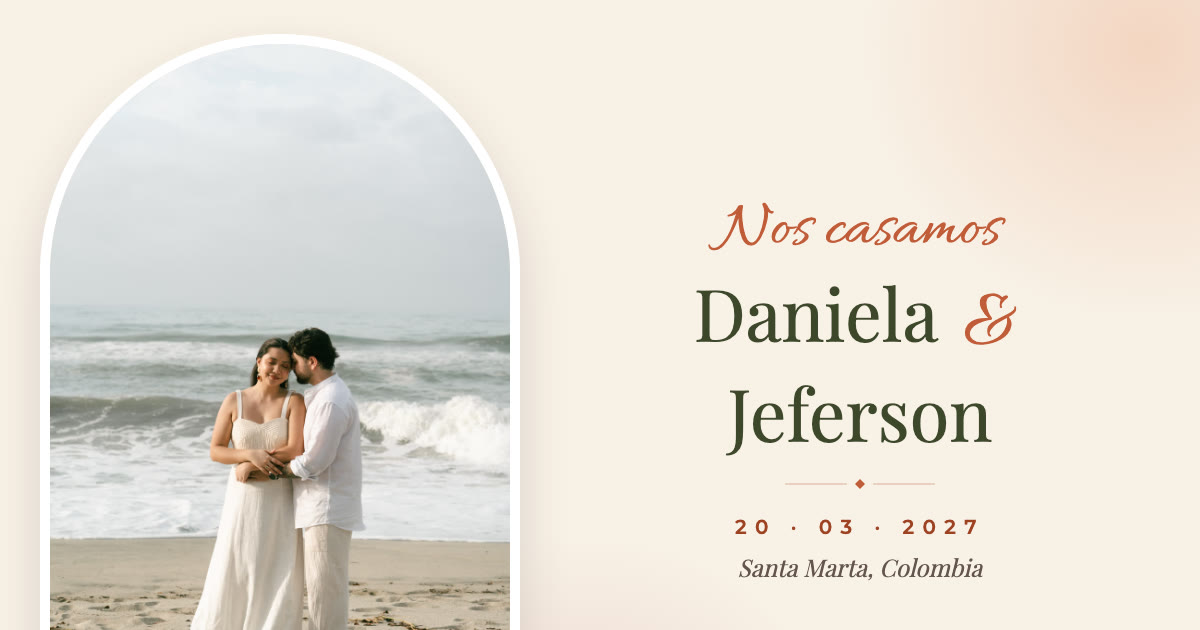
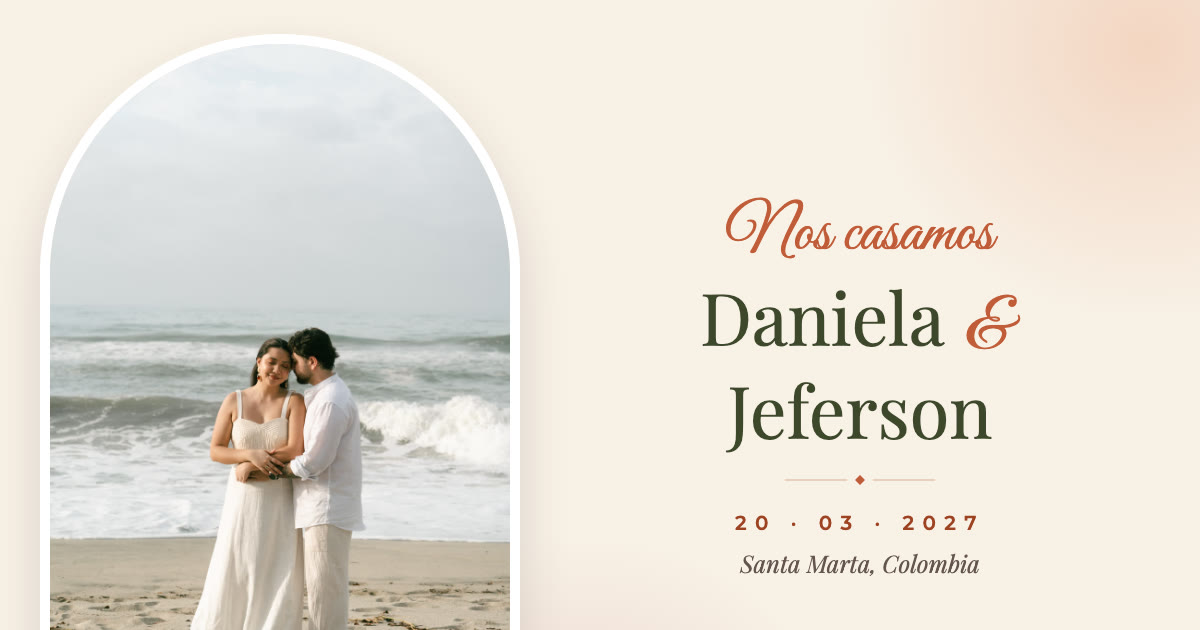
Cursiva Great Vibes en toda la invitación; monogramas D & J centrados
- Great Vibes reemplaza a Allura (invitación y panel)
- '&' de los monogramas (lacre, tarjeta del sobre, lacre del pase) con
  tamaño y separación ajustados midiendo la tinta real: centrado y parejo
- Imagen de vista previa de WhatsApp regenerada con Great Vibes

diff --git a/index.html b/index.html
@@ -35,10 +35,10 @@
 })(document.documentElement);
 </script>
 
-<!-- Fuentes según el Moodboard: Playfair Display, Allura, Montserrat -->
+<!-- Fuentes: Playfair Display, Great Vibes (cursiva), Montserrat -->
 <link rel="preconnect" href="https://fonts.googleapis.com">
 <link rel="preconnect" href="https://fonts.gstatic.com" crossorigin>
-<link href="https://fonts.googleapis.com/css2?family=Allura&family=Montserrat:wght@400;500;600&family=Playfair+Display:ital,wght@0,400;0,500;0,600;1,400&display=swap" rel="stylesheet">
+<link href="https://fonts.googleapis.com/css2?family=Great+Vibes&family=Montserrat:wght@400;500;600&family=Playfair+Display:ital,wght@0,400;0,500;0,600;1,400&display=swap" rel="stylesheet">
 
 <style>
   :root {
@@ -57,7 +57,7 @@
     --linea: rgba(93, 104, 70, 0.18);
     
     --serif: 'Playfair Display', serif;
-    --script: 'Allura', cursive;
+    --script: 'Great Vibes', cursive;
     --sans: 'Montserrat', sans-serif;
     --nav-h: 65px;
 
@@ -307,7 +307,7 @@
   .env-carta { position: absolute; left: 7%; right: 7%; top: 8%; height: 84%; z-index: 1; display: flex; flex-direction: column; align-items: center; justify-content: flex-start; padding-top: 8%;
     background: #FFFDF8; border-radius: 10px; box-shadow: 0 2px 12px rgba(58, 46, 43, .14); text-align: center; transition: transform 1s cubic-bezier(.2, .7, .2, 1) .5s; }
   .env-carta b { font-family: var(--serif); font-weight: 400; font-size: clamp(26px, 7vw, 34px); color: var(--verde-profundo); letter-spacing: .06em; }
-  .env-carta b i { font-family: var(--script); font-style: normal; color: var(--terracotta); padding: 0 .1em; }
+  .env-carta b i { font-family: var(--script); font-style: normal; font-size: .85em; color: var(--terracotta); padding: 0 .3em 0 .06em; }
   .env-carta small { margin-top: 6px; font-size: 10px; font-weight: 600; letter-spacing: .4em; color: var(--terracotta-deep); }
   .env-carta em { margin-top: 5px; font-family: var(--serif); font-size: 13px; color: var(--texto-suave); }
 
@@ -315,7 +315,8 @@
   .env-sello svg { position: absolute; display: block; overflow: visible; pointer-events: none; }
   .env-sello .cera { inset: 0; width: 100%; height: 100%; filter: drop-shadow(0 4px 5px rgba(90, 63, 22, .35)); }
   .env-sello span { position: relative; font-family: var(--serif); font-size: 22px; letter-spacing: .08em; line-height: 96px; color: #6B4A1C; text-shadow: 0 1px 0 rgba(255, 236, 200, .55); }
-  .env-sello span i { font-family: var(--script); font-size: 1.15em; letter-spacing: 0; padding: 0 .06em; }
+  .env-sello span i { font-family: var(--script); font-size: .9em; letter-spacing: 0; padding: 0 .46em 0 0; opacity: .85; }
+  .env-sello span { padding-left: .08em; }
   .env-sello:focus-visible { outline: 3px solid var(--verde-olivo); outline-offset: 4px; }
 
   .sobre-pista { position: relative; display: flex; flex-direction: column; align-items: center; gap: 6px; font-size: 11px; font-weight: 600; letter-spacing: .32em; text-transform: uppercase; color: var(--verde-olivo); transition: opacity .3s ease; }
@@ -661,7 +662,8 @@
   .pase-lacre { position: relative; width: 66px; height: 66px; flex: 0 0 auto; }
   .pase-lacre svg { position: absolute; inset: 0; width: 100%; height: 100%; filter: drop-shadow(0 3px 4px rgba(90, 63, 22, .3)); }
   .pase-lacre span { position: relative; display: block; line-height: 66px; font-family: var(--serif); font-size: 16px; letter-spacing: .06em; color: #6B4A1C; }
-  .pase-lacre span i { font-family: var(--script); font-size: 1.15em; letter-spacing: 0; padding: 0 .05em; }
+  .pase-lacre span i { font-family: var(--script); font-size: .9em; letter-spacing: 0; padding: 0 .46em 0 0; opacity: .85; }
+  .pase-lacre span { padding-left: .06em; }
   .pase-frase { text-align: left; font-family: var(--serif); font-style: italic; font-size: 16px; color: var(--texto-suave); line-height: 1.4; margin: 0; }
   .pase-no .pase-cupo { font-size: 26px; }
   .pase-acciones { text-align: center; margin-top: 26px; }

diff --git a/admin.html b/admin.html
@@ -7,7 +7,7 @@
 <title>Administración · Daniela & Jeferson</title>
 <link rel="preconnect" href="https://fonts.googleapis.com">
 <link rel="preconnect" href="https://fonts.gstatic.com" crossorigin>
-<link href="https://fonts.googleapis.com/css2?family=Allura&family=Montserrat:wght@400;500;600&family=Playfair+Display:ital,wght@0,400;0,500;0,600;1,400&display=swap" rel="stylesheet">
+<link href="https://fonts.googleapis.com/css2?family=Great+Vibes&family=Montserrat:wght@400;500;600&family=Playfair+Display:ital,wght@0,400;0,500;0,600;1,400&display=swap" rel="stylesheet">
 <style>
   :root {
     --verde-olivo: #5D6846;
@@ -25,7 +25,7 @@
     --linea: rgba(93, 104, 70, 0.18);
     
     --serif: 'Playfair Display', serif;
-    --script: 'Allura', cursive;
+    --script: 'Great Vibes', cursive;
     --sans: 'Montserrat', sans-serif;
     --nav-h: 65px;
 
